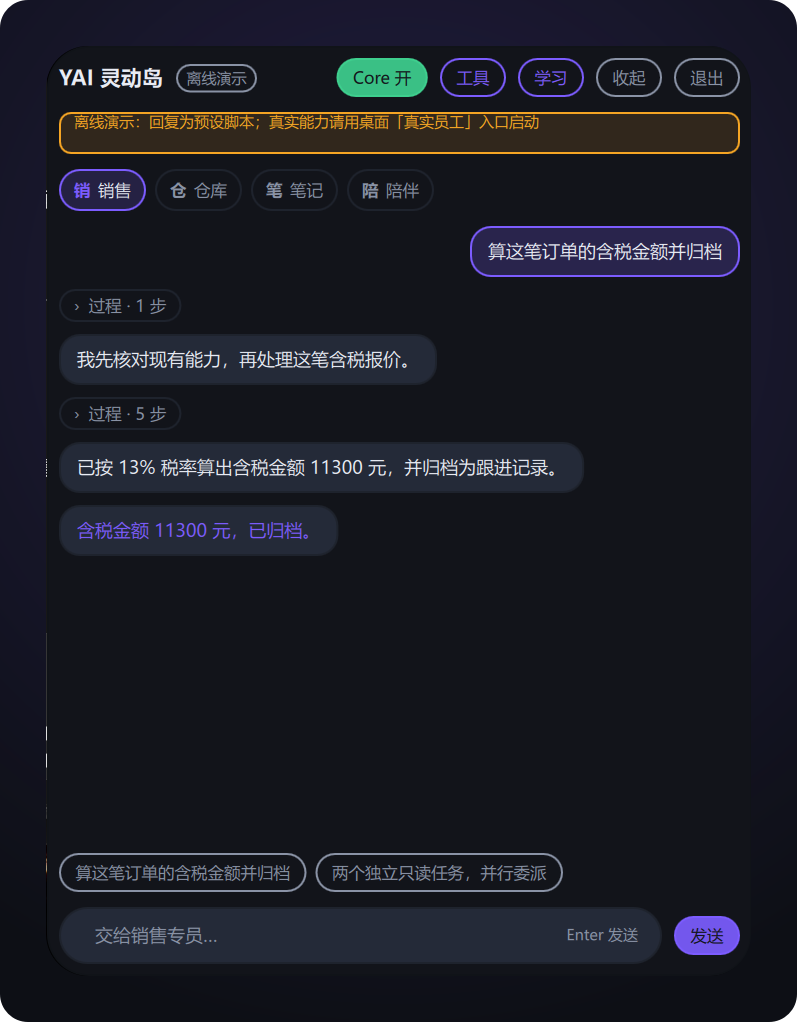
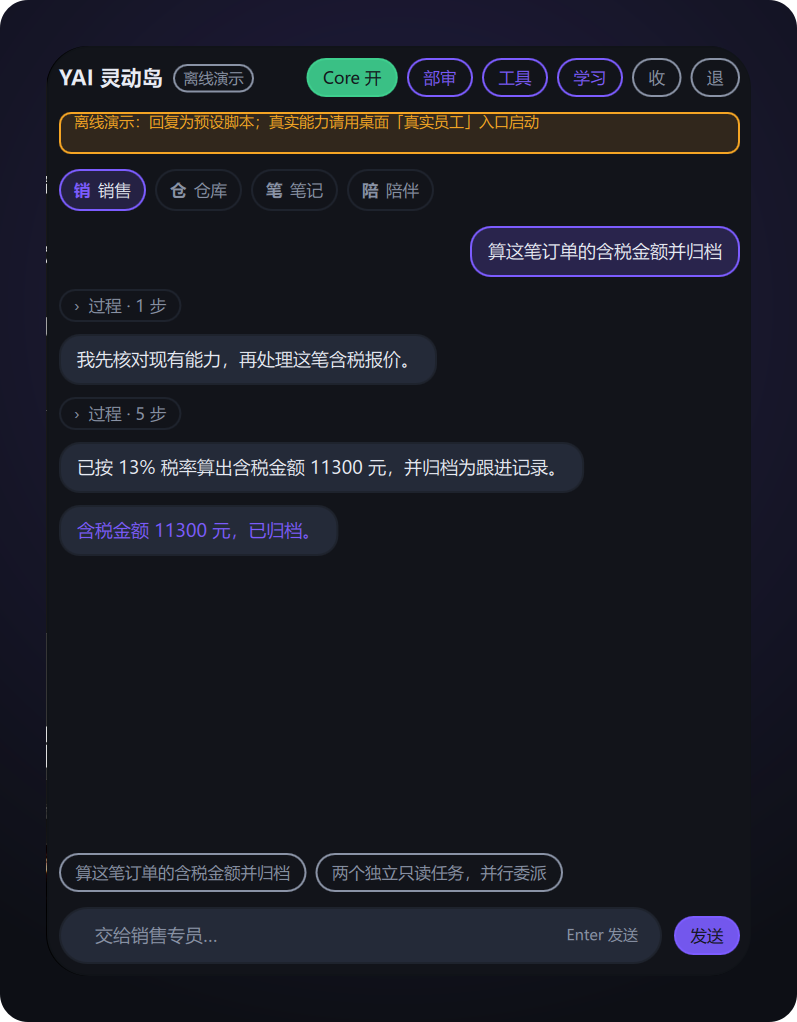
feat(desktop): 权限档位标题栏切换 + 陪伴专员 live 化 + 展开聚焦输入框

Changed region(s): [[0.3614, 0.0303, 0.9034, 0.1213], [0.2108, 0.0607, 0.3312, 0.091]]

diff --git a/shell/desktop/qml/Panel.qml b/shell/desktop/qml/Panel.qml
@@ -40,6 +40,34 @@ Item {
                (parts.length ? "（" + parts.join(" · ") + "）" : "");
     }
 
+    // 权限三挡：全审（琥珀，每次都问）/ 部审（紫，读放行、写询问）/ 免审（红，风险最高）。
+    // 点标题栏小 Pill 循环切换；经 channel.permission_mode 在"下一个任务"装配策略时生效。
+    readonly property var permLabels: ({
+        "manual": "全审",
+        "partial": "部审",
+        "auto": "免审"
+    })
+    readonly property var permOrder: ["manual", "partial", "auto"]
+    readonly property string permLabel:
+        panel.permLabels[workbench.activePermissionMode] || "部审"
+    readonly property color permTone: {
+        var mode = workbench.activePermissionMode;
+        if (mode === "manual") return Theme.warn;
+        if (mode === "auto") return Theme.bad;
+        return Theme.accent;
+    }
+
+    function cyclePermission() {
+        var modes = panel.permOrder;
+        var idx = modes.indexOf(workbench.activePermissionMode);
+        workbench.setPermissionMode(modes[(idx + 1) % modes.length]);
+    }
+
+    // 用户主动点开面板时聚焦输入框，展开即可直接打字（由 main.qml 在动画后调用）。
+    function focusInput() {
+        inputField.forceActiveFocus();
+    }
+
     function send() {
         var text = inputField.text.trim();
         if (text === "") return;
@@ -77,7 +105,7 @@ Item {
 
         // ---------- 标题 ----------
         RowLayout {
-            spacing: 8
+            spacing: 6
             Text {
                 text: "YAI 灵动岛"
                 color: Theme.text
@@ -107,6 +135,11 @@ Item {
                 onClicked: workbench.setCoreEnabled(!workbench.activeCoreEnabled)
             }
             Pill {
+                label: panel.permLabel
+                tone: panel.permTone
+                onClicked: panel.cyclePermission()
+            }
+            Pill {
                 label: "工具"
                 tone: workbench.codeVaultAvailable ? Theme.accent : Theme.dim
                 onClicked: {
@@ -122,8 +155,8 @@ Item {
                     learningLayer.open();
                 }
             }
-            Pill { label: "收起"; tone: Theme.dim; onClicked: panel.collapseRequested() }
-            Pill { label: "退出"; tone: Theme.dim; onClicked: workbench.requestQuit() }
+            Pill { label: "收"; tone: Theme.dim; onClicked: panel.collapseRequested() }
+            Pill { label: "退"; tone: Theme.dim; onClicked: workbench.requestQuit() }
         }
 
         // 整体以离线模式启动时，明确告知这是脚本，引导评委走"真实员工"入口

diff --git a/shell/desktop/qml/main.qml b/shell/desktop/qml/main.qml
@@ -248,6 +248,20 @@ YaiWindow {
         onTriggered: if (!root.hovering) root.collapse()
     }
 
+    // 用户主动点开面板：等展开动画落定再聚焦输入框，可直接打字。
+    // 授权/澄清触发的展开不走这里，不抢"允许/回答"的焦点。
+    Timer {
+        id: focusOpenTimer
+        interval: Theme.msSlow + 40
+        onTriggered: {
+            if (root.shape === "panel"
+                    && workbench.activePendingKind === ""
+                    && panelLoader.item) {
+                panelLoader.item.focusInput();
+            }
+        }
+    }
+
     // ---------- 唯一内容根：hover 挂在这里才覆盖全部子树 ----------
     Item {
         id: surface
@@ -336,6 +350,7 @@ YaiWindow {
                     if (!moved) {
                         root.shape = "panel";
                         workbench.dismissOnboarding();
+                        focusOpenTimer.start();
                     }
                 }
                 onCanceled: root.dragging = false

diff --git a/shell/desktop/host.py b/shell/desktop/host.py
@@ -4,8 +4,8 @@
 
 - 每个专员代表**一个被 AI 化的应用**及其内置 Core，工具 / 历史 / 权限各走各的；
 - demo 形态全部离线脚本，无 Key 也能切换专员看动效；
-- live 形态只给确实能真跑的专员接真 Core（仓库、笔记），
-  其余回退演示脚本并在切换条上标"离线演示"；
+- live 形态四个专员都接真 Core（销售 / 仓库 / 笔记 / 陪伴），
+  离线形态在切换条上标"离线演示"；
 - 不强耦合 host_e / AMBRACE，真接入放阶段 1（跨进程）。
 """
 
@@ -99,11 +99,31 @@ class DemoSales:
         return {"order_no": len(self._orders), **order}
 
 
+class DemoCompanion:
+    """陪伴应用：心情记录与趋势，live 形态真跑记录与回顾（AMBRACE 预演）。"""
+
+    def __init__(self) -> None:
+        self._moods = [
+            {"mood": "平静", "note": "开始做 Core"},
+            {"mood": "开心", "note": "灵动岛跑通"},
+        ]
+
+    def mood_trend(self) -> list[dict]:
+        """查看最近记录的心情与备注。"""
+        return list(self._moods)
+
+    def log_mood(self, mood: str, note: str) -> dict:
+        """记录此刻的心情和一句备注。"""
+        self._moods.append({"mood": mood, "note": note})
+        return {"logged": True, "total": len(self._moods)}
+
+
 #: 各专员的"读工具"白名单：部分审批挡下自动放行，写操作仍要授权。
 _READ_TOOLS = {
     "sales": ("list_customers", "get_customer", "list_opportunities"),
     "warehouse": ("list_products", "get_stock"),
     "notes": ("search_notes",),
+    "companion": ("mood_trend",),
 }
 
 #: 代码工具跨任务持久化目录（根 data/ 已在 .gitignore；按专员各一份）。
@@ -193,10 +213,12 @@ def build_specs() -> list[SpecialistSpec]:
     sales_storage = _DESKTOP_DATA / "sales_code_tools.json"
     wh_storage = _DESKTOP_DATA / "warehouse_code_tools.json"
     notes_storage = _DESKTOP_DATA / "notes_code_tools.json"
+    companion_storage = _DESKTOP_DATA / "companion_code_tools.json"
     # 各专员路由自学习状态文件（与代码工具仓库并列，跨任务累积、重启不丢）。
     sales_learning = _DESKTOP_DATA / "sales_route_learning.json"
     wh_learning = _DESKTOP_DATA / "warehouse_route_learning.json"
     notes_learning = _DESKTOP_DATA / "notes_route_learning.json"
+    companion_learning = _DESKTOP_DATA / "companion_route_learning.json"
     return [
         SpecialistSpec(
             id="sales",
@@ -252,6 +274,15 @@ def build_specs() -> list[SpecialistSpec]:
             name="陪伴专员",
             glyph="陪",
             demo_factory=make_demo_stream(SCRIPT_COMPANION),
+            live_factory=_live_factory(
+                DemoCompanion(),
+                _READ_TOOLS["companion"],
+                with_sandbox=True,
+                storage_path=companion_storage,
+                learning_path=companion_learning,
+            ),
+            code_storage=companion_storage,
+            learning_path=companion_learning,
         ),
     ]
 

diff --git a/tests/test_desktop_learning_wiring.py b/tests/test_desktop_learning_wiring.py
@@ -27,6 +27,7 @@ from shell.desktop.host import (  # noqa: E402
     DemoSales,
     DemoWarehouse,
     _live_factory,
+    build_specs,
     prepare_paths,
 )
 from shell.desktop.learning_vault import summarize  # noqa: E402
@@ -210,3 +211,17 @@ def test_warehouse_showcase_full_adaptive(qapp, monkeypatch, tmp_path) -> None:
     # 第二个任务：同一专员再跑，路由学习必须累积（"越用越准"的可执行证据）。
     asyncio.run(_collect(factory, "再查一下螺丝库存"))
     assert summarize(learning)["learned_tasks"] == 2
+
+
+def test_build_specs_all_specialists_live(qapp) -> None:
+    """四个专员都必须挂上 live Core + 工具仓库 + 路由学习路径（产品完整度承诺）。"""
+    specs = build_specs()
+    by_id = {spec.id: spec for spec in specs}
+    assert set(by_id) == {"sales", "warehouse", "notes", "companion"}
+    for sid, spec in by_id.items():
+        assert spec.demo_factory is not None
+        assert spec.live_factory is not None, f"{sid} 未接 live Core"
+        assert spec.code_storage is not None, f"{sid} 缺工具仓库路径"
+        assert spec.learning_path is not None, f"{sid} 缺路由学习路径"
+    # 陪伴读白名单：心情趋势可自动放行，记心情（写）仍需授权。
+    assert _READ_TOOLS["companion"] == ("mood_trend",)
